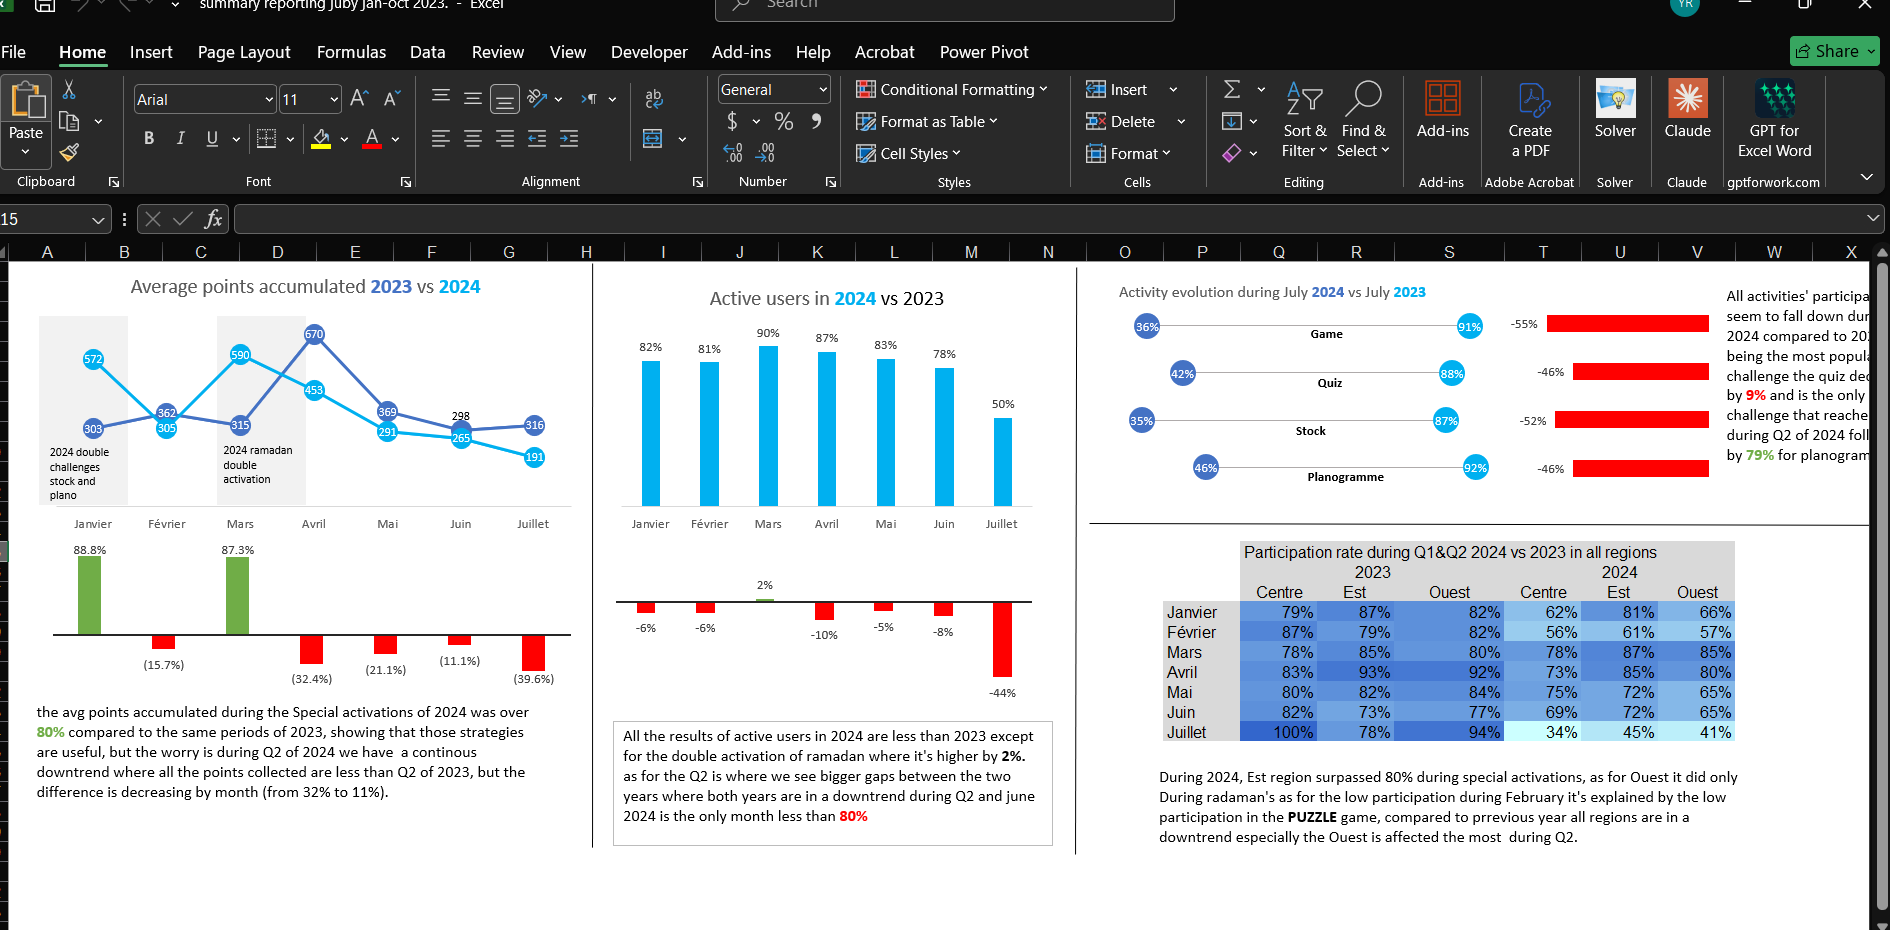
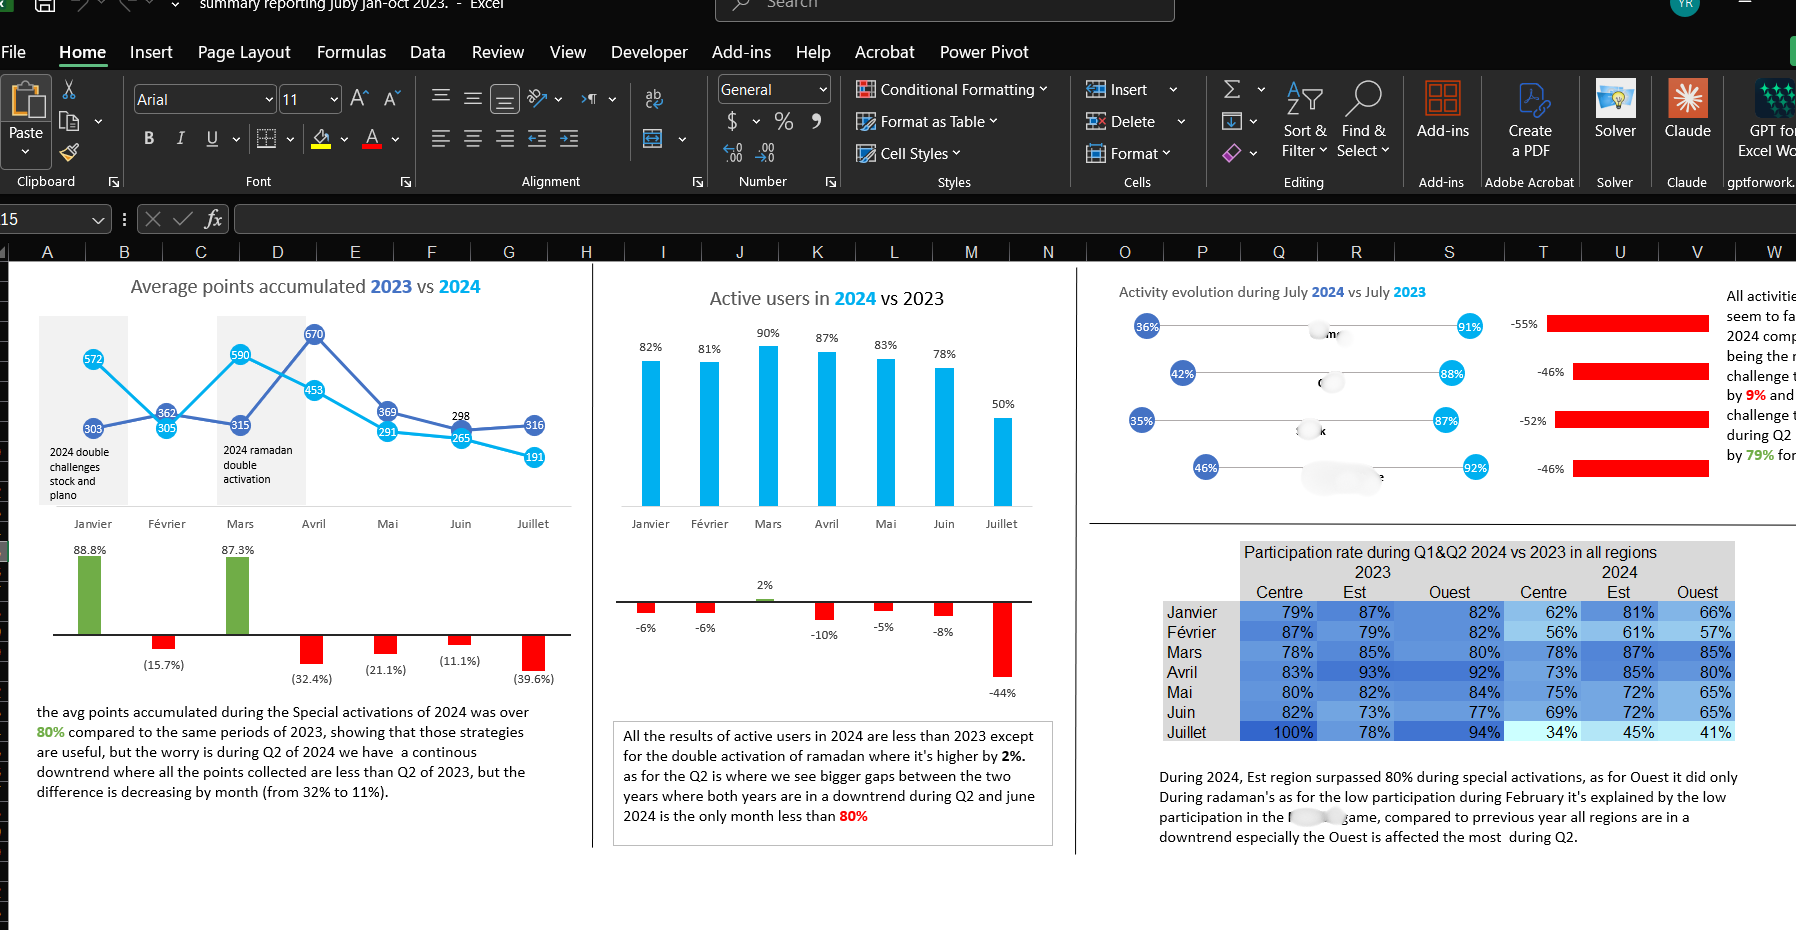
new pics

diff --git a/index.html b/index.html
@@ -1101,7 +1101,7 @@
         <div class="project-card">
           <div class="project-top">
             <h3>New strategy dashboard</h3>
-            <span class="status-tag status-progress">Case study — self-directed</span>
+            
           </div>
           <p class="desc">Designed a new reporting for another market, to track non purchase activities and its
             evolution for three months
@@ -1120,7 +1120,7 @@
         <div class="project-card">
           <div class="project-top">
             <h3>Market comparison between 2023 and 2024</h3>
-            <span class="status-tag status-progress">Case study</span>
+
           </div>
           <p class="desc">this report was for the third market in order to compare the outcome of different
             strategies that were done in 2023 and 2024 (for example adding new activities in january 2024 which resulted